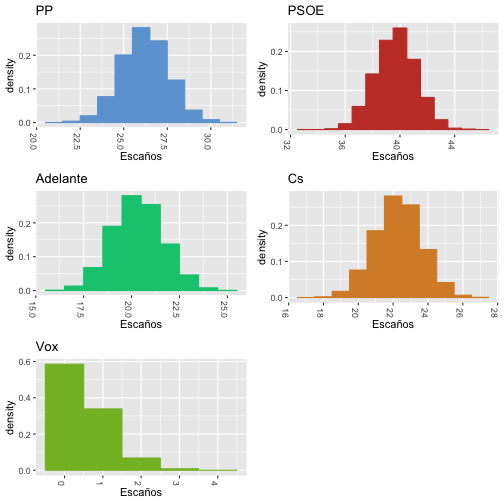
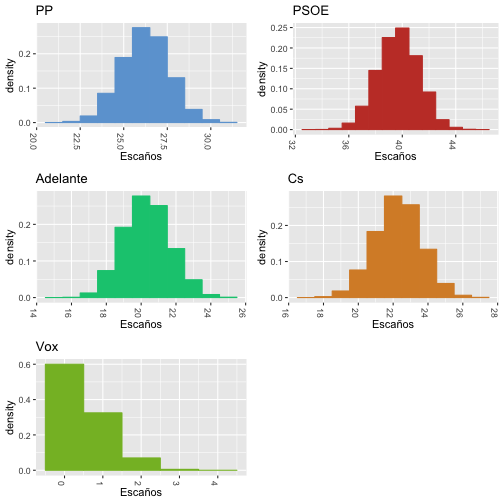
Resultados actualizados de las elecciones andaluzas.

diff --git a/posts/elecciones/rstats/2018/11/25/encuestas-ANDPROV/index.html b/posts/elecciones/rstats/2018/11/25/encuestas-ANDPROV/index.html
@@ -167,7 +167,7 @@
    <td style="text-align:left;"> Min. </td>
    <td style="text-align:right;"> 21.0000 </td>
    <td style="text-align:right;"> 33.0000 </td>
-   <td style="text-align:right;"> 16.0000 </td>
+   <td style="text-align:right;"> 15.0000 </td>
    <td style="text-align:right;"> 17.0000 </td>
    <td style="text-align:right;"> 0.0000 </td>
   </tr>
@@ -189,11 +189,11 @@
   </tr>
   <tr>
    <td style="text-align:left;"> Mean </td>
-   <td style="text-align:right;"> 26.2104 </td>
-   <td style="text-align:right;"> 39.6791 </td>
-   <td style="text-align:right;"> 20.3329 </td>
-   <td style="text-align:right;"> 22.2782 </td>
-   <td style="text-align:right;"> 0.4994 </td>
+   <td style="text-align:right;"> 26.2303 </td>
+   <td style="text-align:right;"> 39.6958 </td>
+   <td style="text-align:right;"> 20.3228 </td>
+   <td style="text-align:right;"> 22.2704 </td>
+   <td style="text-align:right;"> 0.4807 </td>
   </tr>
   <tr>
    <td style="text-align:left;"> 3rd Qu. </td>
@@ -294,7 +294,7 @@
    <td style="text-align:left;"> 3 (3 - 4) </td>
    <td style="text-align:left;"> 2 (2 - 3) </td>
    <td style="text-align:left;"> 2 (2 - 3) </td>
-   <td style="text-align:left;"> 2 (1 - 3) </td>
+   <td style="text-align:left;"> 2 (1 - 2) </td>
    <td style="text-align:left;"> 2 (1 - 2) </td>
    <td style="text-align:left;"> 3 (3 - 4) </td>
    <td style="text-align:left;"> 4 (3 - 5) </td>
@@ -336,7 +336,7 @@
 
 <h2 id="conclusiones">Conclusiones</h2>
 
-<p>Hemos visto cómo los modelos jerárquicos Bayesianos nos permiten combinar datos de diferentes encuestas para poder realizar una estimación del número de escaños que obtendría cada partido en las elecciones andluzas del 2 de diciembre de 2018. Los resultados muestran que los partidos de izquierdas obtendrían una mayoría absoluta en número de escaños con una probabilidad del 99.96%.</p>
+<p>Hemos visto cómo los modelos jerárquicos Bayesianos nos permiten combinar datos de diferentes encuestas para poder realizar una estimación del número de escaños que obtendría cada partido en las elecciones andluzas del 2 de diciembre de 2018. Los resultados muestran que los partidos de izquierdas obtendrían una mayoría absoluta en número de escaños con una probabilidad del 99.92%.</p>
 
 <p>Por algún motivo, este modelo proporciona resultados muy similares a los obtenidos usando solamente las encuestas a nivel provincial. Esto puede deberse a que el modelo produce un sobreajuste de los porcentajes de voto a nivel provincial.</p>
 
